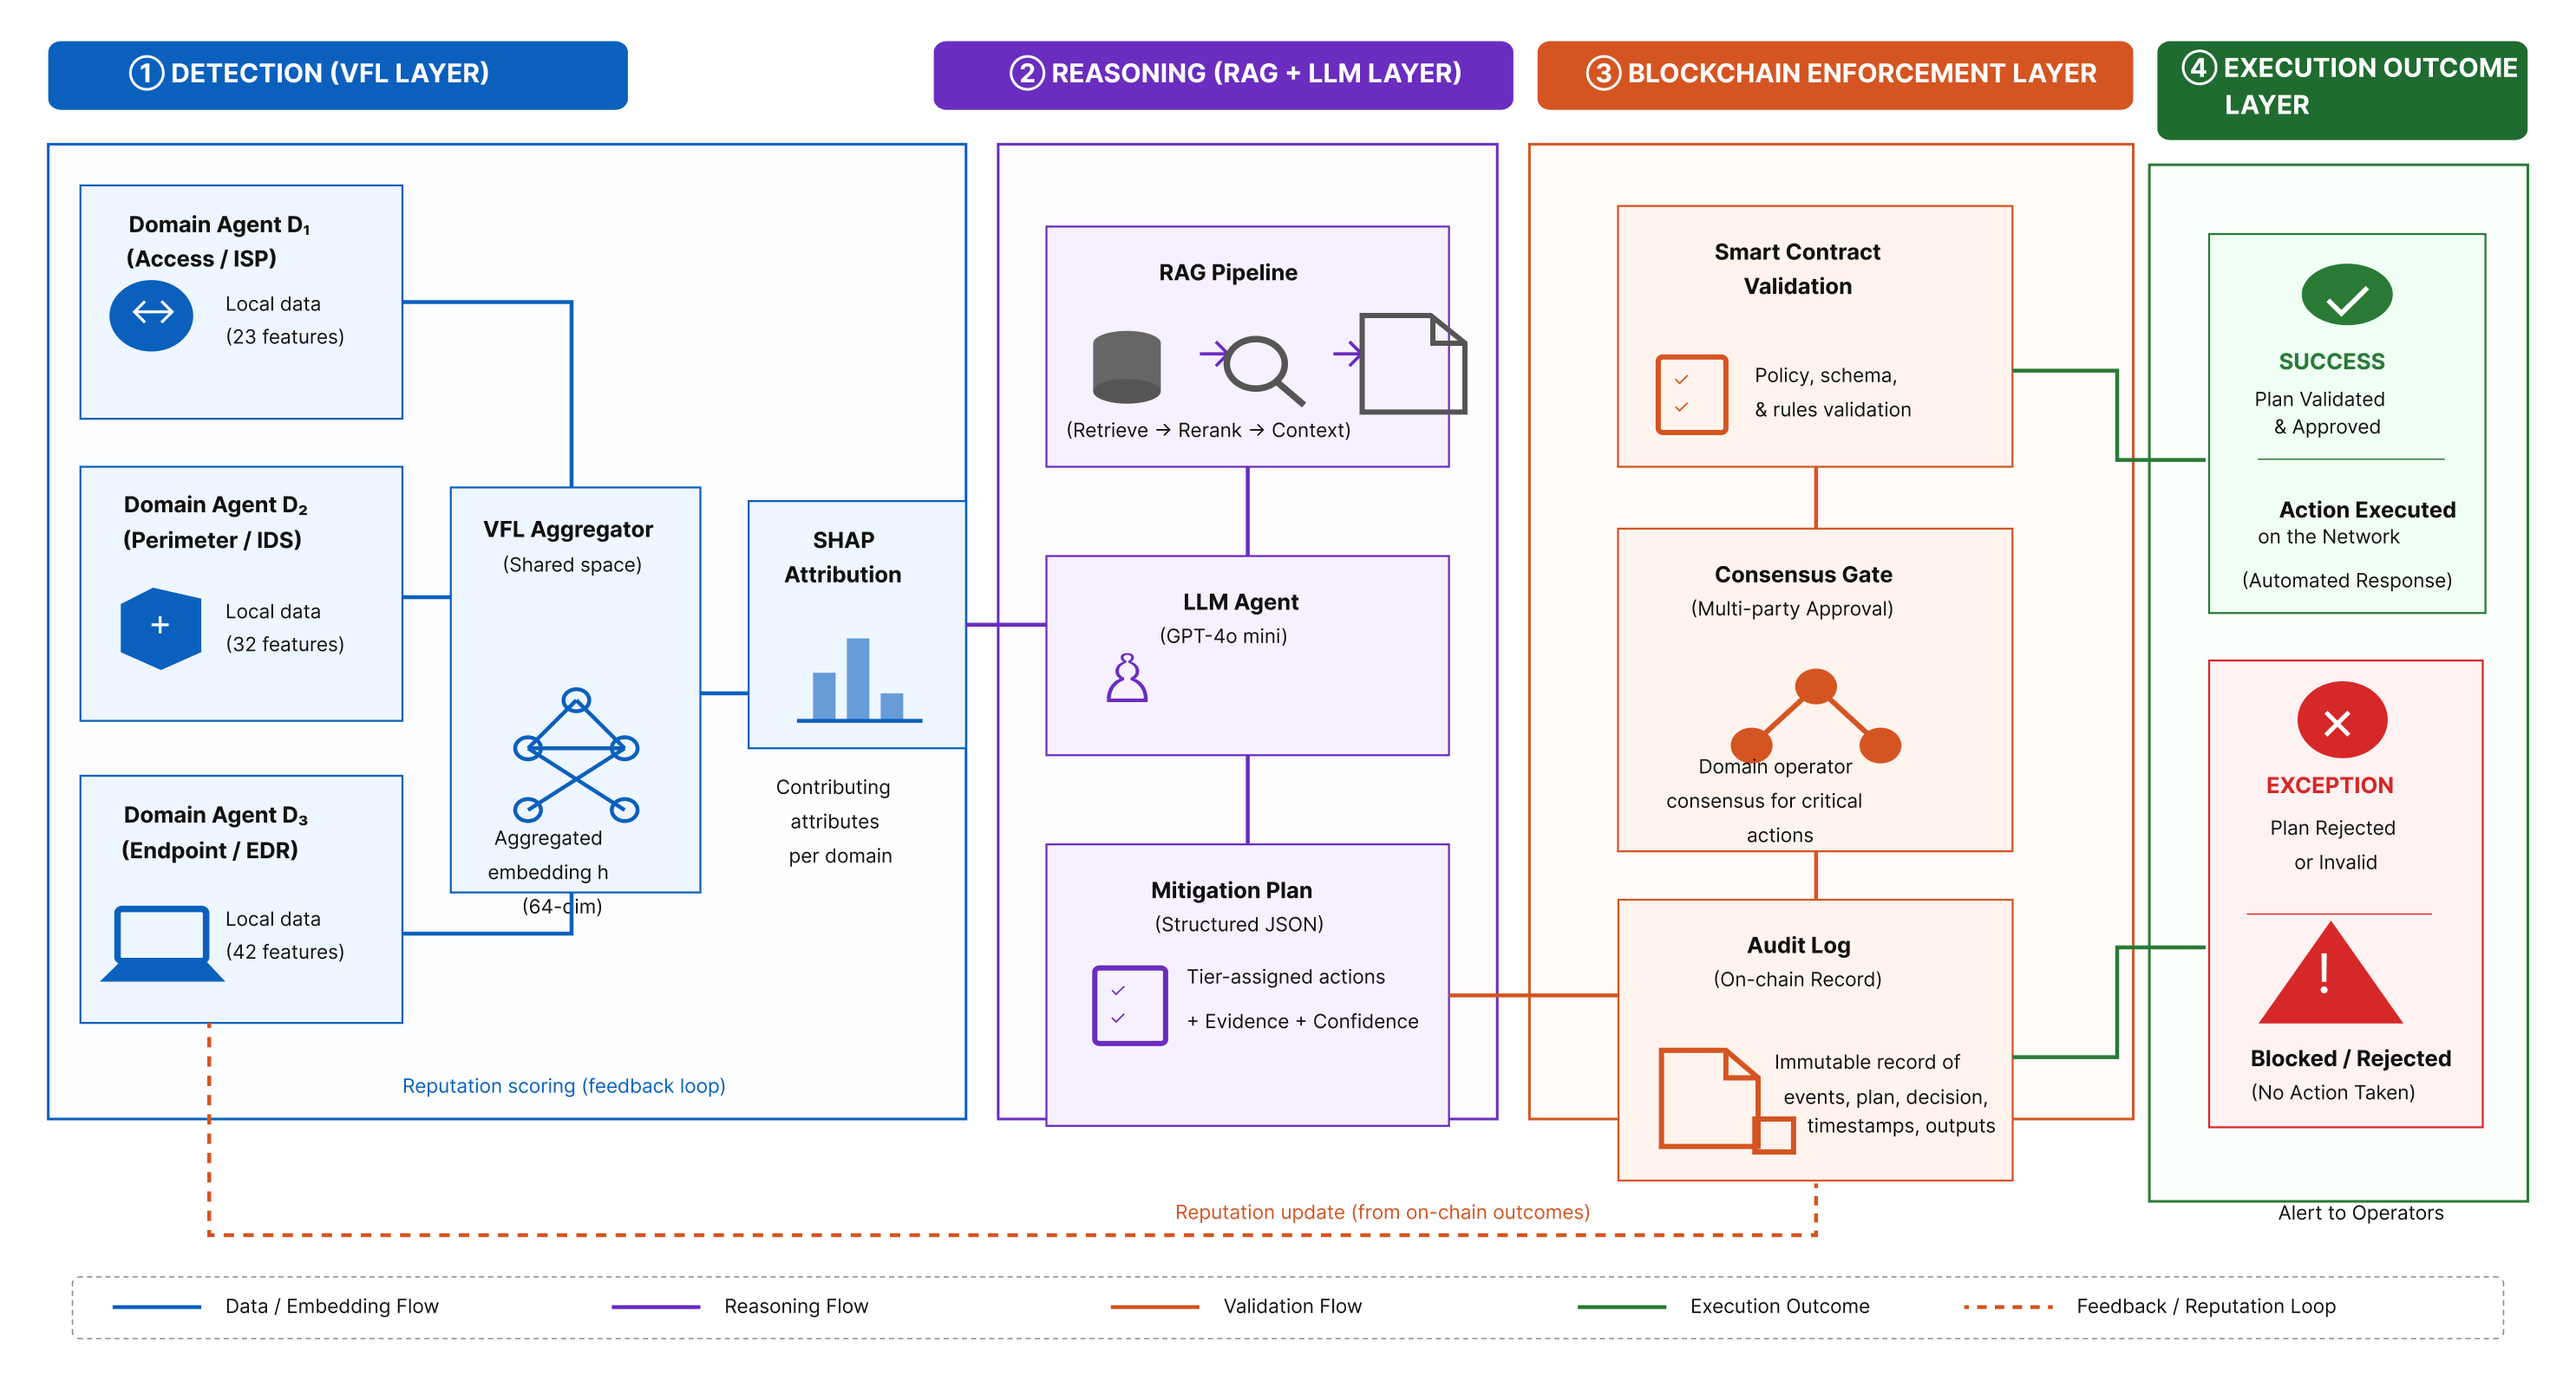
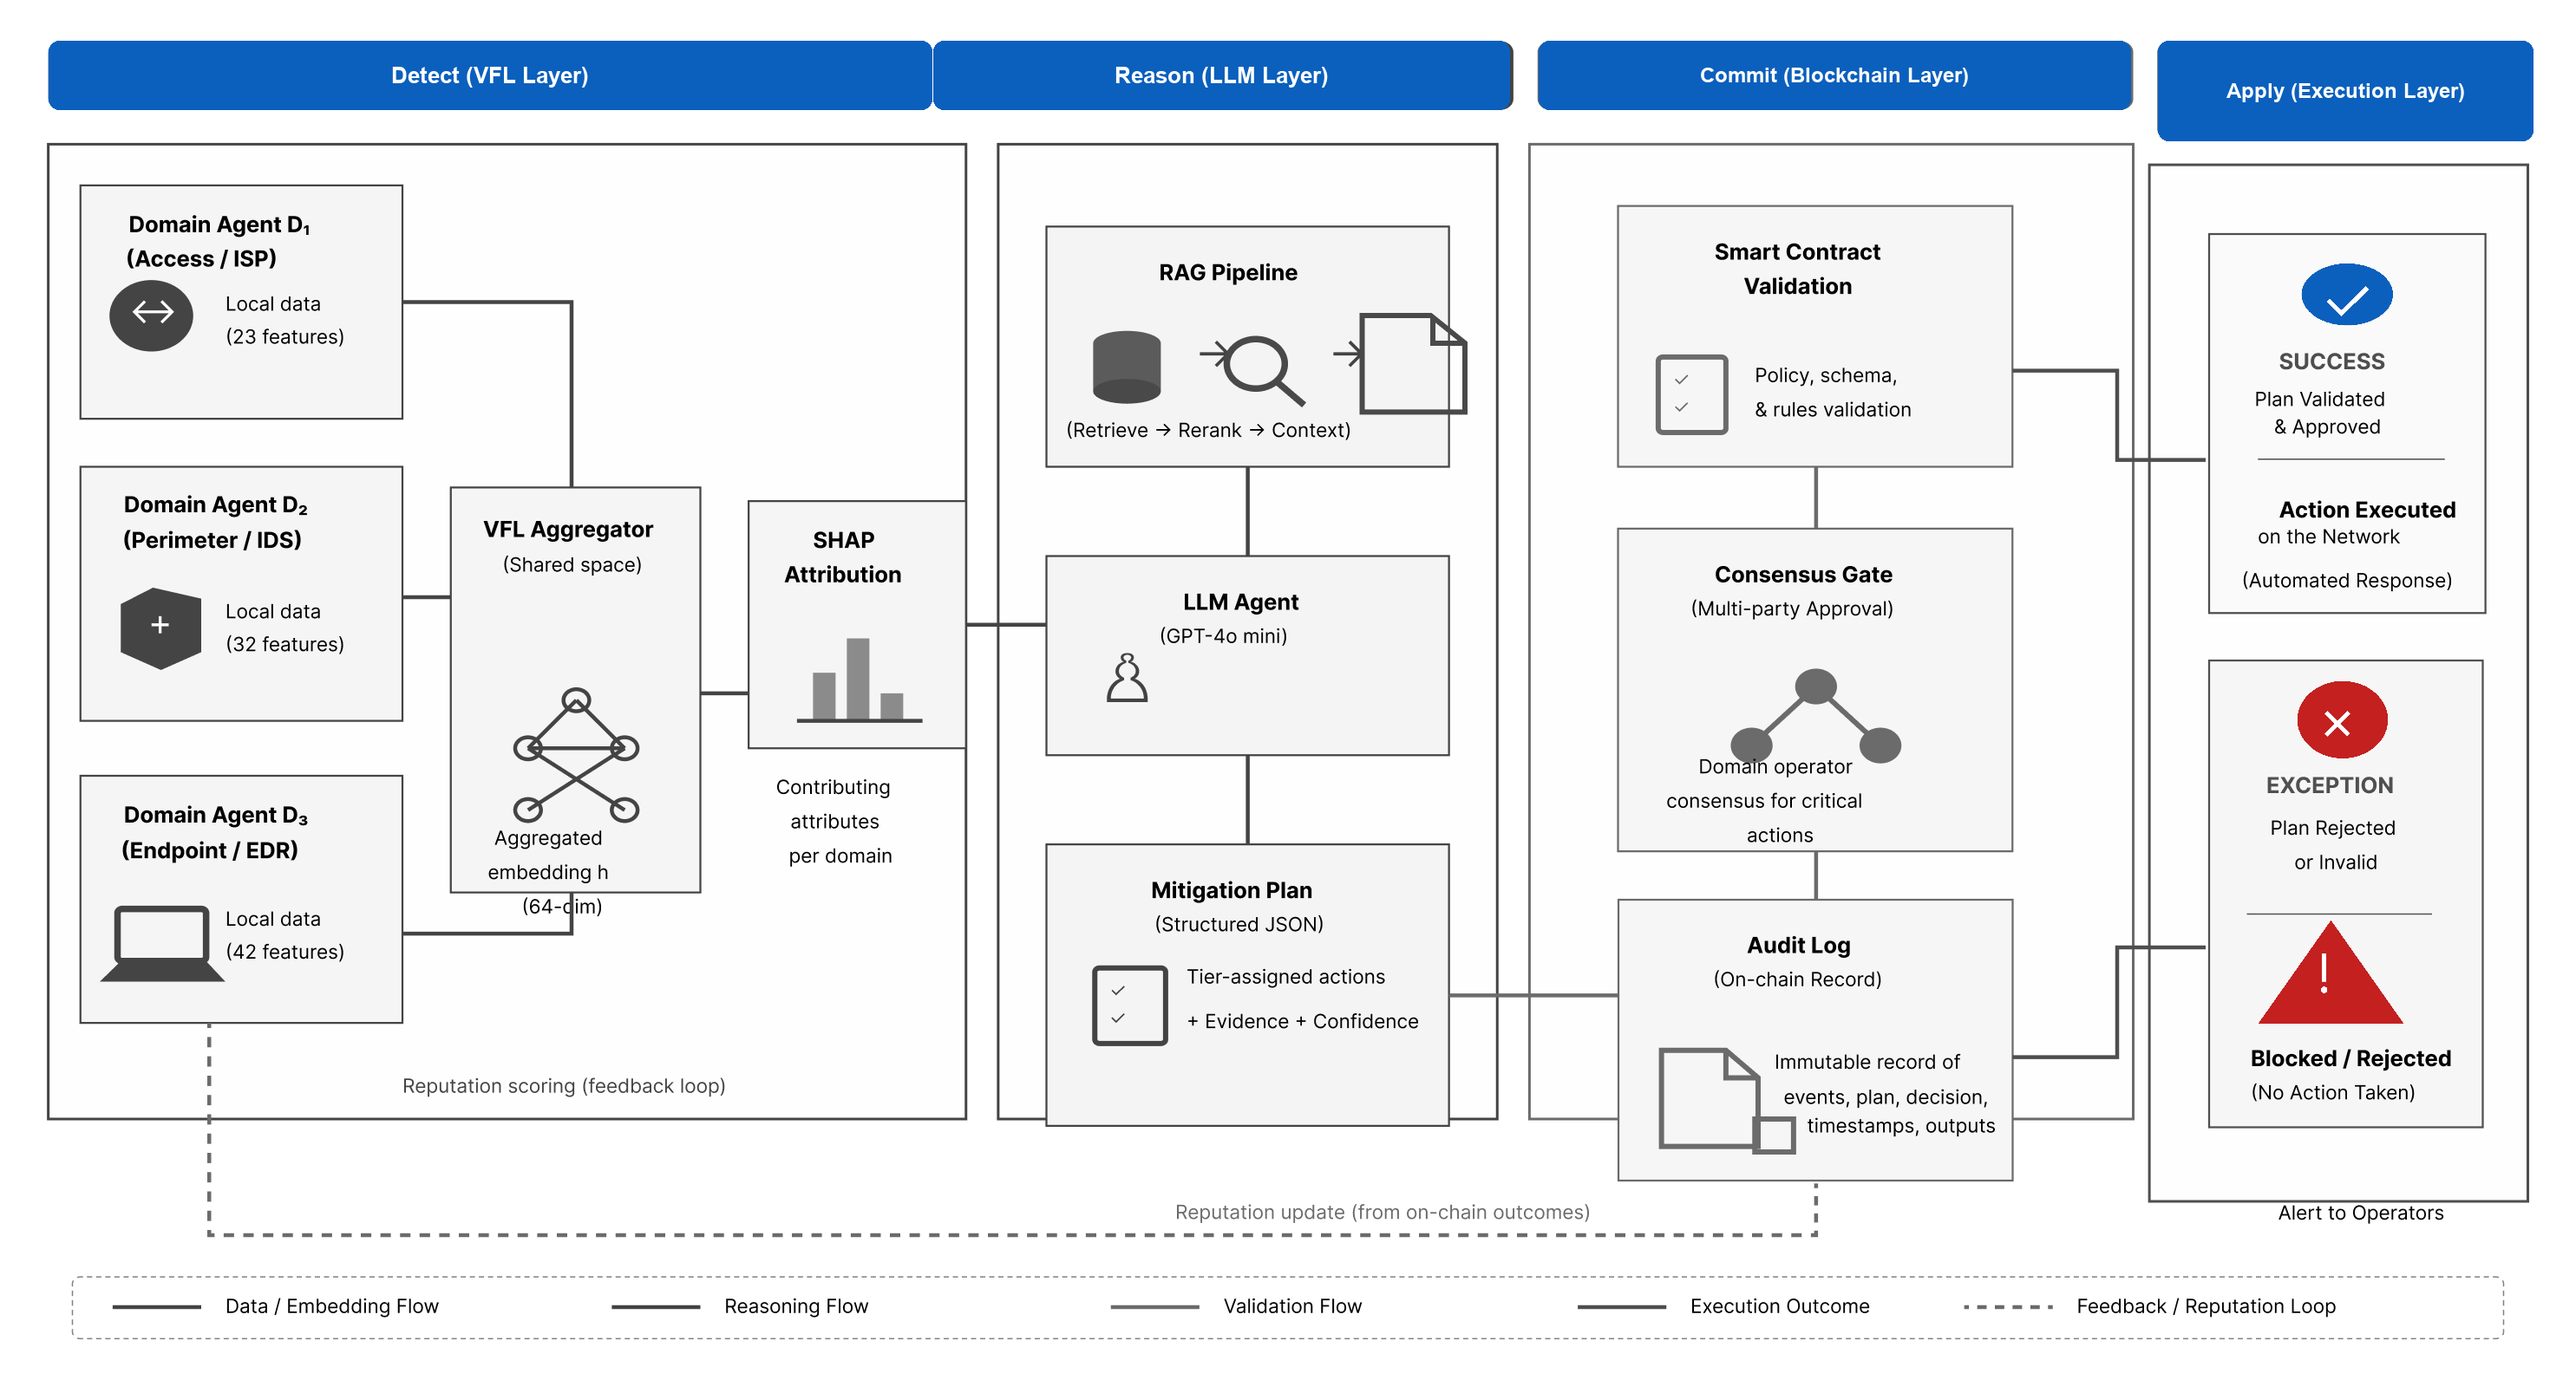
Update PRAGMA architecture, Apply-flow, and network diagrams for Detect-Reason-Commit-Apply.

diff --git a/assets/make_pragma_network.py b/assets/make_pragma_network.py
@@ -1,0 +1,126 @@
+"""PRAGMA network diagram: left domains, center 2x2 core, right stores."""
+from pathlib import Path
+
+import matplotlib.pyplot as plt
+from matplotlib.patches import FancyBboxPatch, FancyArrowPatch, Circle, Rectangle
+from matplotlib.lines import Line2D
+
+OUT = Path(__file__).with_name("Pragma_network.png")
+
+BLUE = "#0b60bd"
+BLUE_DK = "#0a3d73"
+BLUE_LT = "#e8f1fb"
+RED = "#c42020"
+BLACK = "#1a1a1a"
+GRAY = "#5a5a5a"
+WHITE = "#ffffff"
+FILL = "#f7f9fc"
+
+fig, ax = plt.subplots(figsize=(13.2, 7.2), dpi=200)
+ax.set_xlim(0, 132)
+ax.set_ylim(0, 72)
+ax.axis("off")
+fig.patch.set_facecolor(WHITE)
+ax.set_facecolor(WHITE)
+
+
+def rbox(x, y, w, h, fc=FILL, ec=BLUE, lw=1.2, rad=0.35):
+    p = FancyBboxPatch(
+        (x, y), w, h,
+        boxstyle=f"round,pad=0.12,rounding_size={rad}",
+        facecolor=fc, edgecolor=ec, linewidth=lw, zorder=2,
+    )
+    ax.add_patch(p)
+    return p
+
+
+def txt(x, y, s, size=8, color=BLACK, weight="normal", ha="center", va="center"):
+    ax.text(x, y, s, fontsize=size, color=color, fontweight=weight,
+            ha=ha, va=va, zorder=4, linespacing=1.25)
+
+
+def arr(x1, y1, x2, y2, color=BLUE, lw=1.4):
+    ax.add_patch(FancyArrowPatch(
+        (x1, y1), (x2, y2),
+        arrowstyle="-|>", mutation_scale=11, linewidth=lw,
+        color=color, zorder=3, shrinkA=0, shrinkB=0,
+    ))
+
+
+# ----- LEFT: domain agents -----
+rbox(3, 12, 26, 50, fc=BLUE_LT, ec=BLUE, lw=1.4)
+txt(16, 58.5, "Domain agents", 10, BLUE_DK, "bold")
+txt(16, 55.8, "(no raw features leave the party)", 6.5, GRAY)
+
+domains = [
+    (42, r"$D_1$  Access / ISP\n23 flow features"),
+    (31, r"$D_2$  Perimeter / IDS\n32 flow features"),
+    (20, r"$D_3$  Endpoint / EDR\n42 flow features"),
+]
+for y, label in domains:
+    rbox(5.5, y, 21, 8.2, fc=WHITE, ec=BLUE)
+    txt(16, y + 4.1, label, 7.4, BLACK)
+
+txt(16, 14.5, "CICIDS-2017 aligned\nsample IDs, disjoint columns", 6.6, GRAY)
+
+# ----- CENTER: PRAGMA core -----
+rbox(34, 10, 58, 54, fc="#f0f5fb", ec=BLUE_DK, lw=1.6)
+txt(63, 60.2, "PRAGMA core", 11, BLUE_DK, "bold")
+txt(63, 57.6, "detect  —  reason  —  commit  —  apply", 7, GRAY)
+
+tools = [
+    (36.5, 34.5, "1  Detect  (VFL Layer)", "Local MLP encoders\n64-d embeddings, concat\nSHAP names driving tier"),
+    (64.0, 34.5, "2  Reason  (LLM Layer)", "RAG over policy corpus\nGPT-4o-mini JSON plan\ntier-assigned actions"),
+    (36.5, 13.5, "3  Commit  (Blockchain Layer)", "Canonical JSON payload P\nSHA-256 digest only\nanchor() write-once"),
+    (64.0, 13.5, "4  Apply  (Execution Layer)", "Whitelist for attack\nPlan + tier binding\napplyAction or block"),
+]
+for x, y, title, body in tools:
+    rbox(x, y, 25.5, 18.5, fc=WHITE, ec=BLUE)
+    rbox(x, y + 14.2, 25.5, 4.3, fc=BLUE, ec=BLUE, rad=0.25)
+    txt(x + 12.75, y + 16.35, title, 7.3, WHITE, "bold")
+    txt(x + 12.75, y + 7.2, body, 6.8, BLACK)
+
+# pipeline: 1→2 (top), 2→3 (across the gap), 3→4 (bottom)
+arr(62.0, 43.7, 64.0, 43.7)
+ax.add_patch(FancyArrowPatch(
+    (76.75, 34.5), (49.25, 32.0),
+    arrowstyle="-|>", mutation_scale=11, linewidth=1.2,
+    color=BLUE, zorder=3, connectionstyle="bar,angle=180,fraction=-0.18",
+))
+arr(62.0, 22.7, 64.0, 22.7)
+
+# left -> center
+arr(29.0, 46.1, 34.0, 46.1)
+arr(29.0, 35.1, 34.0, 43.5)
+arr(29.0, 24.1, 34.0, 41.0)
+
+# ----- RIGHT: stores / actuation -----
+rbox(97, 45.5, 32, 16.5, fc=WHITE, ec=BLUE)
+txt(113, 59.2, "Policy corpus", 8.2, BLUE_DK, "bold")
+txt(113, 52.2, "NIST SP 800-53 / 800-207\nCIS Controls v8  ·  ATT&CK\nFAISS + MiniLM retrieval", 6.8, BLACK)
+
+rbox(97, 27.5, 32, 15.5, fc=WHITE, ec=BLUE)
+txt(113, 40.4, "AgenticTrustRegistry", 8.2, BLUE_DK, "bold")
+txt(113, 33.4, "Hardhat  ·  Solidity 0.8.20\nhash-only commitments\nper-attack action whitelist", 6.8, BLACK)
+
+rbox(97, 10.0, 32, 15.0, fc=WHITE, ec=BLUE)
+txt(113, 22.4, "Network / operator", 8.2, BLUE_DK, "bold")
+txt(107.5, 15.2, "dispatch to tier  τ", 7, BLUE, "bold")
+txt(118.5, 15.2, "block + alert", 7, RED, "bold")
+txt(113, 12.0, "Access · Perimeter · Endpoint", 6.4, GRAY)
+
+arr(92.0, 52.5, 97.0, 52.5)   # reason -> corpus (conceptually RAG)
+arr(92.0, 35.0, 97.0, 35.0)   # commit/apply -> chain
+arr(92.0, 17.5, 97.0, 17.5)   # apply -> network
+
+# downward on right
+arr(113, 45.5, 113, 43.0)
+arr(113, 27.5, 113, 25.0)
+
+# ----- bottom banner -----
+ax.add_patch(Rectangle((3, 1.2), 126, 6.6, facecolor=BLUE_DK, edgecolor=BLUE_DK, zorder=2))
+txt(66, 4.5, "PRAGMA  ·  Privacy-preserving multi-domain intrusion response", 10, WHITE, "bold")
+
+fig.tight_layout(pad=0.25)
+fig.savefig(OUT, dpi=200, bbox_inches="tight", facecolor=WHITE)
+print(f"wrote {OUT}")

diff --git a/assets/make_flow.py b/assets/make_flow.py
@@ -1,0 +1,112 @@
+"""Apply (Execution Layer) flowchart for PRAGMA (IEEE-friendly)."""
+from pathlib import Path
+
+import matplotlib.pyplot as plt
+from matplotlib.patches import FancyBboxPatch, FancyArrowPatch
+
+OUT = Path(__file__).with_name("Flow.png")
+
+fig, ax = plt.subplots(figsize=(4.4, 5.0), dpi=220)
+ax.set_xlim(0, 10.4)
+ax.set_ylim(0, 11.2)
+ax.axis("off")
+fig.patch.set_facecolor("white")
+ax.set_facecolor("white")
+
+
+def box(x, y, w, h, text, fc="#f4f4f4", ec="#222222", lw=1.1):
+    p = FancyBboxPatch(
+        (x, y),
+        w,
+        h,
+        boxstyle="round,pad=0.04,rounding_size=0.18",
+        facecolor=fc,
+        edgecolor=ec,
+        linewidth=lw,
+        zorder=2,
+    )
+    ax.add_patch(p)
+    ax.text(
+        x + w / 2,
+        y + h / 2,
+        text,
+        ha="center",
+        va="center",
+        fontsize=8.4,
+        color="#111111",
+        zorder=3,
+        linespacing=1.25,
+    )
+    return (x + w / 2, y + h, x + w / 2, y)
+
+
+def arrow(x1, y1, x2, y2, label=None):
+    ax.add_patch(
+        FancyArrowPatch(
+            (x1, y1),
+            (x2, y2),
+            arrowstyle="-|>",
+            mutation_scale=9,
+            linewidth=1.15,
+            color="#222222",
+            zorder=1,
+        )
+    )
+    if label:
+        ax.text(x1 - 0.32, (y1 + y2) / 2, label, fontsize=7.2, color="#333", ha="right", va="center")
+
+
+ax.add_patch(
+    FancyBboxPatch(
+        (0.35, 0.3),
+        9.75,
+        10.5,
+        boxstyle="round,pad=0.02,rounding_size=0.12",
+        facecolor="#f4f7f4",
+        edgecolor="#2f5d32",
+        linewidth=1.35,
+        zorder=0,
+    )
+)
+ax.text(0.55, 10.35, "Apply (Execution Layer)", fontsize=9.5, fontweight="bold", color="#1b3d1d")
+
+a0 = box(1.15, 8.55, 5.15, 1.25, "Apply request\n(attack, action, tier)", fc="#ffffff")
+a1 = box(1.15, 6.35, 5.15, 1.25, "Policy ground\nwhitelisted for this attack?", fc="#e8eef6")
+a2 = box(1.15, 4.15, 5.15, 1.25, "Plan binding\naction and tier match plan?", fc="#e8eef6")
+ok = box(1.15, 1.55, 5.15, 1.35, "applyAction\nreceipt + dispatch to tier", fc="#dcecdc")
+no = box(6.85, 5.05, 2.9, 1.35, "Block\noperator queue", fc="#f6dcdc", ec="#8a3030")
+
+arrow(a0[2], a0[3] - 0.02, a1[0], a1[1] + 0.02)
+arrow(a1[2], a1[3] - 0.02, a2[0], a2[1] + 0.02, label="yes")
+arrow(a2[2], a2[3] - 0.02, ok[0], ok[1] + 0.02, label="yes")
+
+ax.add_patch(
+    FancyArrowPatch(
+        (6.3, 6.97),
+        (6.85, 6.15),
+        arrowstyle="-|>",
+        mutation_scale=9,
+        linewidth=1.15,
+        color="#8a3030",
+        zorder=1,
+    )
+)
+ax.text(6.45, 7.12, "no", fontsize=7.2, color="#8a3030")
+ax.add_patch(
+    FancyArrowPatch(
+        (6.3, 4.77),
+        (6.85, 5.55),
+        arrowstyle="-|>",
+        mutation_scale=9,
+        linewidth=1.15,
+        color="#8a3030",
+        zorder=1,
+    )
+)
+ax.text(6.45, 4.45, "no", fontsize=7.2, color="#8a3030")
+
+ax.text(1.15, 0.55, "Restore tier from Detect / Reason, then gate dispatch.", fontsize=7, color="#333")
+
+fig.tight_layout(pad=0.12)
+fig.savefig(OUT, dpi=220, bbox_inches="tight", facecolor="white")
+print(f"wrote {OUT}")
